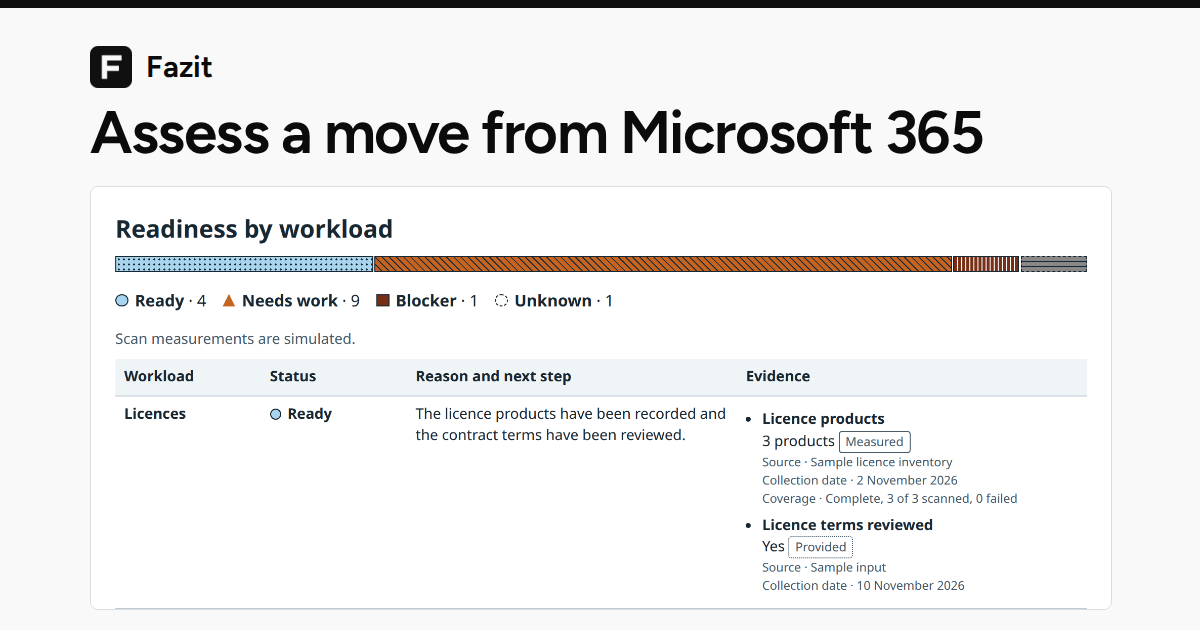
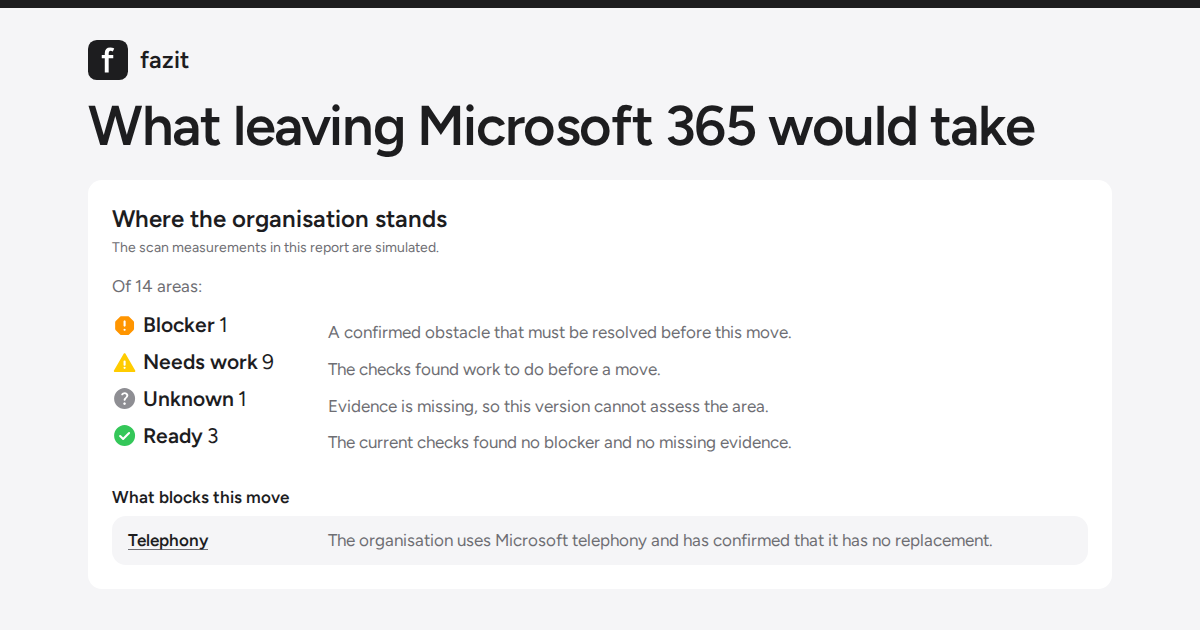
site: Mail example and link preview from the final report (RR-08 part 2)
Assisted-by: Codex GPT-6.2-Sol

diff --git a/site/index.html b/site/index.html
@@ -19,7 +19,7 @@
   <meta property="og:image" content="https://fazit.dev/og.png">
   <meta property="og:image:width" content="1200">
   <meta property="og:image:height" content="630">
-  <meta property="og:image:alt" content="Fazit and an excerpt from the readiness section of the English sample report">
+  <meta property="og:image:alt" content="Fazit wordmark and an excerpt from the English sample report. The summary shows the number of areas in each status and identifies telephony as the blocker.">
   <meta name="twitter:card" content="summary_large_image">
   <link rel="icon" href="/favicon.svg" type="image/svg+xml">
   <link rel="apple-touch-icon" href="/apple-touch-icon.png" sizes="180x180">
@@ -73,7 +73,7 @@
           <source media="(max-width: 600px) and (prefers-color-scheme: dark)" srcset="/images/readiness-en-mobile-dark.webp" width="800" height="1440">
           <source media="(max-width: 600px)" srcset="/images/readiness-en-mobile-light.webp" width="800" height="1440">
           <source media="(prefers-color-scheme: dark)" srcset="/images/readiness-en-dark.webp" width="2016" height="1120">
-          <img src="/images/readiness-en-light.webp" width="2016" height="1120" alt="Summary of the sample report. The status list for 14 areas shows Blocker (1), Needs work (9), Unknown (1) and Ready (3), with a definition for each. The finding that blocks this move follows." decoding="async" fetchpriority="high">
+          <img src="/images/readiness-en-light.webp" width="2016" height="1120" alt="Summary of the sample report. The status list for 14 areas shows Blocker (1), Needs work (9), Unknown (1) and Ready (3), with a definition for each. The report identifies telephony as the blocker." decoding="async" fetchpriority="high">
         </picture>
       </div>
       <figcaption>
@@ -103,11 +103,12 @@
       <h2 class="sec-label" id="example-title">Evidence and a next step for every area</h2>
       <div class="sec-body">
         <p class="sec-intro">Each area shows its status, the evidence behind it and what is still missing. This example covers Mail in the report for a fictional town. Its measurements are simulated.</p>
-        <!-- mail-card: copied from site/demo/en/index.html -->
         <article data-workload="mail" data-status="needs_work" data-incomplete data-category="communication" class="finding" id="readiness-mail" aria-labelledby="area-mail">
           <h3 class="finding-area" id="area-mail">Mail · <span class="finding-category">Communication</span></h3>
-          <p class="finding-status"><span class="status needs_work"><svg class="icon" viewBox="0 -960 960 960" aria-hidden="true" focusable="false"><path d="M109-120q-11 0-20-5.5T75-140q-5-9-5.5-19.5T75-180l370-640q6-10 15.5-15t19.5-5q10 0 19.5 5t15.5 15l370 640q6 10 5.5 20.5T885-140q-5 9-14 14.5t-20 5.5H109Zm371-120q17 0 28.5-11.5T520-280q0-17-11.5-28.5T480-320q-17 0-28.5 11.5T440-280q0 17 11.5 28.5T480-240Zm0-120q17 0 28.5-11.5T520-400v-120q0-17-11.5-28.5T480-560q-17 0-28.5 11.5T440-520v120q0 17 11.5 28.5T480-360Z"/></svg> Needs work</span>
-            <small class="note-text">Evidence incomplete</small></p>
+          <p class="finding-status">
+            <span class="status needs_work"><svg class="icon" viewBox="0 -960 960 960" aria-hidden="true" focusable="false"><path d="M109-120q-11 0-20-5.5T75-140q-5-9-5.5-19.5T75-180l370-640q6-10 15.5-15t19.5-5q10 0 19.5 5t15.5 15l370 640q6 10 5.5 20.5T885-140q-5 9-14 14.5t-20 5.5H109Zm371-120q17 0 28.5-11.5T520-280q0-17-11.5-28.5T480-320q-17 0-28.5 11.5T440-280q0 17 11.5 28.5T480-240Zm0-120q17 0 28.5-11.5T520-400v-120q0-17-11.5-28.5T480-560q-17 0-28.5 11.5T440-520v120q0 17 11.5 28.5T480-360Z"/></svg> Needs work</span>
+            <small class="note-text">Evidence incomplete</small>
+          </p>
           <div class="finding-reason">
             Other systems send mail through Microsoft and will need another way to send it.
           </div>
@@ -244,8 +245,8 @@
         <ul class="tiles tiles-2">
           <li>
             <span class="tile-icon icon-account-balance" aria-hidden="true"></span>
-            <h3>Summary for the council</h3>
-            <p>A summary for the first printed page, with confirmed obstacles, open questions and five-year totals.</p>
+            <h3>Where the organisation stands</h3>
+            <p>The first printed page gives the council confirmed blockers, open questions and five-year cost totals.</p>
           </li>
           <li>
             <span class="tile-icon icon-route" aria-hidden="true"></span>
@@ -259,7 +260,7 @@
           </li>
           <li>
             <span class="tile-icon icon-euro" aria-hidden="true"></span>
-            <h3>Costs over five years</h3>
+            <h3>What staying and moving cost over five years</h3>
             <p>Compare staying, a partial move and a full move using the costs you supply.</p>
           </li>
           <li>
@@ -274,7 +275,7 @@
           </li>
           <li>
             <span class="tile-icon icon-menu-book" aria-hidden="true"></span>
-            <h3>How the report was made</h3>
+            <h3>How this report was made</h3>
             <p>Collection methods, assessment rules, cost calculations and run details.</p>
           </li>
         </ul>

diff --git a/site/de/index.html b/site/de/index.html
@@ -19,7 +19,7 @@
   <meta property="og:image" content="https://fazit.dev/og.png">
   <meta property="og:image:width" content="1200">
   <meta property="og:image:height" content="630">
-  <meta property="og:image:alt" content="Fazit und ein Ausschnitt zur Bereitschaft aus dem englischen Beispielbericht">
+  <meta property="og:image:alt" content="Fazit-Schriftzug und Ausschnitt aus dem englischen Beispielbericht. Die Übersicht zeigt die Zahl der Bereiche je Status und nennt die Telefonie als Hindernis.">
   <meta name="twitter:card" content="summary_large_image">
   <link rel="icon" href="/favicon.svg" type="image/svg+xml">
   <link rel="apple-touch-icon" href="/apple-touch-icon.png" sizes="180x180">
@@ -73,7 +73,7 @@
           <source media="(max-width: 600px) and (prefers-color-scheme: dark)" srcset="/images/readiness-de-mobile-dark.webp" width="800" height="1440">
           <source media="(max-width: 600px)" srcset="/images/readiness-de-mobile-light.webp" width="800" height="1440">
           <source media="(prefers-color-scheme: dark)" srcset="/images/readiness-de-dark.webp" width="2016" height="1120">
-          <img src="/images/readiness-de-light.webp" width="2016" height="1120" alt="Überblick aus dem Beispielbericht. Die Statusliste für 14 Bereiche zeigt „Hindernis“ (1), „Handlungsbedarf“ (9), „Unbekannt“ (1) und „Bereit“ (3) mit jeweils einer Erläuterung. Darunter steht der Befund, der dem Umstieg entgegensteht." decoding="async" fetchpriority="high">
+          <img src="/images/readiness-de-light.webp" width="2016" height="1120" alt="Zusammenfassung des Beispielberichts. Die Statusliste für 14 Bereiche zeigt „Hindernis“ (1), „Handlungsbedarf“ (9), „Unbekannt“ (1) und „Bereit“ (3) mit jeweils einer Erläuterung. Als Hindernis nennt der Bericht die Telefonie." decoding="async" fetchpriority="high">
         </picture>
       </div>
       <figcaption>
@@ -103,11 +103,12 @@
       <h2 class="sec-label" id="example-title">Nachweise und nächster Schritt für jeden Bereich</h2>
       <div class="sec-body">
         <p class="sec-intro">Für jeden Bereich nennt der Bericht den Status, die Nachweise und die noch offenen Angaben. Das Beispiel zeigt den Bereich E-Mail im Bericht für eine fiktive Stadtverwaltung. Die Messwerte sind simuliert.</p>
-        <!-- mail-card: copied from site/demo/de/index.html -->
         <article data-workload="mail" data-status="needs_work" data-incomplete data-category="communication" class="finding" id="readiness-mail" aria-labelledby="area-mail">
           <h3 class="finding-area" id="area-mail">E-Mail · <span class="finding-category">Kommunikation</span></h3>
-          <p class="finding-status"><span class="status needs_work"><svg class="icon" viewBox="0 -960 960 960" aria-hidden="true" focusable="false"><path d="M109-120q-11 0-20-5.5T75-140q-5-9-5.5-19.5T75-180l370-640q6-10 15.5-15t19.5-5q10 0 19.5 5t15.5 15l370 640q6 10 5.5 20.5T885-140q-5 9-14 14.5t-20 5.5H109Zm371-120q17 0 28.5-11.5T520-280q0-17-11.5-28.5T480-320q-17 0-28.5 11.5T440-280q0 17 11.5 28.5T480-240Zm0-120q17 0 28.5-11.5T520-400v-120q0-17-11.5-28.5T480-560q-17 0-28.5 11.5T440-520v120q0 17 11.5 28.5T480-360Z"/></svg> Handlungsbedarf</span>
-            <small class="note-text">Datengrundlage unvollständig</small></p>
+          <p class="finding-status">
+            <span class="status needs_work"><svg class="icon" viewBox="0 -960 960 960" aria-hidden="true" focusable="false"><path d="M109-120q-11 0-20-5.5T75-140q-5-9-5.5-19.5T75-180l370-640q6-10 15.5-15t19.5-5q10 0 19.5 5t15.5 15l370 640q6 10 5.5 20.5T885-140q-5 9-14 14.5t-20 5.5H109Zm371-120q17 0 28.5-11.5T520-280q0-17-11.5-28.5T480-320q-17 0-28.5 11.5T440-280q0 17 11.5 28.5T480-240Zm0-120q17 0 28.5-11.5T520-400v-120q0-17-11.5-28.5T480-560q-17 0-28.5 11.5T440-520v120q0 17 11.5 28.5T480-360Z"/></svg> Handlungsbedarf</span>
+            <small class="note-text">Datengrundlage unvollständig</small>
+          </p>
           <div class="finding-reason">
             Andere Systeme versenden E-Mails über Microsoft und benötigen dafür künftig einen anderen Versandweg.
           </div>
@@ -244,8 +245,8 @@
         <ul class="tiles tiles-2">
           <li>
             <span class="tile-icon icon-account-balance" aria-hidden="true"></span>
-            <h3>Übersicht für den Gemeinderat</h3>
-            <p>Eine Zusammenfassung für die erste Druckseite mit bestätigten Hindernissen, offenen Fragen und den Gesamtkosten über fünf Jahre.</p>
+            <h3>Wo die Organisation steht</h3>
+            <p>Auf der ersten Druckseite findet der Gemeinderat bestätigte Hindernisse, offene Fragen und die Gesamtkosten über fünf Jahre.</p>
           </li>
           <li>
             <span class="tile-icon icon-route" aria-hidden="true"></span>
@@ -259,7 +260,7 @@
           </li>
           <li>
             <span class="tile-icon icon-euro" aria-hidden="true"></span>
-            <h3>Kosten über fünf Jahre</h3>
+            <h3>Was Verbleib und Umstieg in fünf Jahren kosten</h3>
             <p>Der Vergleich stellt die Kosten für Verbleib, teilweisen und vollständigen Umstieg anhand Ihrer Angaben gegenüber.</p>
           </li>
           <li>

diff --git a/site/de/integrators/index.html b/site/de/integrators/index.html
@@ -19,7 +19,7 @@
   <meta property="og:image" content="https://fazit.dev/og.png">
   <meta property="og:image:width" content="1200">
   <meta property="og:image:height" content="630">
-  <meta property="og:image:alt" content="Fazit und ein Ausschnitt zur Bereitschaft aus dem englischen Beispielbericht">
+  <meta property="og:image:alt" content="Fazit-Schriftzug und Ausschnitt aus dem englischen Beispielbericht. Die Übersicht zeigt die Zahl der Bereiche je Status und nennt die Telefonie als Hindernis.">
   <meta name="twitter:card" content="summary_large_image">
   <link rel="icon" href="/favicon.svg" type="image/svg+xml">
   <link rel="apple-touch-icon" href="/apple-touch-icon.png" sizes="180x180">
@@ -50,7 +50,7 @@
   <main id="main" tabindex="-1">
     <div class="page-intro">
       <h1>Mit den Befunden die nächsten Schritte planen</h1>
-      <p>Nutzen Sie die Befunde, um fehlende Exporte und Antworten mit Ihren Kunden zu klären. Für den überarbeiteten Bericht ist eine Liste vorgesehen, die offene Punkte nach dem benötigten Nachweis bündelt und die zuständige Rolle nennt. So genügt eine Anfrage, auch wenn mehrere Bereiche betroffen sind.</p>
+      <p>Nutzen Sie die Befunde, um mit Ihren Kunden zu klären, welche Exporte und Antworten noch fehlen. Der Bericht bündelt offene Punkte nach den noch benötigten Nachweisen und nennt die jeweils zuständige Rolle. So genügt eine Anfrage, auch wenn mehrere Bereiche betroffen sind.</p>
       <p>Für Phase 1.2 ist ein CSV-Export für die Projektplanung vorgesehen.</p>
     </div>
 

diff --git a/site/integrators/index.html b/site/integrators/index.html
@@ -19,7 +19,7 @@
   <meta property="og:image" content="https://fazit.dev/og.png">
   <meta property="og:image:width" content="1200">
   <meta property="og:image:height" content="630">
-  <meta property="og:image:alt" content="Fazit and an excerpt from the readiness section of the English sample report">
+  <meta property="og:image:alt" content="Fazit wordmark and an excerpt from the English sample report. The summary shows the number of areas in each status and identifies telephony as the blocker.">
   <meta name="twitter:card" content="summary_large_image">
   <link rel="icon" href="/favicon.svg" type="image/svg+xml">
   <link rel="apple-touch-icon" href="/apple-touch-icon.png" sizes="180x180">
@@ -50,7 +50,7 @@
   <main id="main" tabindex="-1">
     <div class="page-intro">
       <h1>Plan the next steps from the findings</h1>
-      <p>Use the findings to identify which exports and answers to request from your client. The report redesign groups open points by the evidence needed and names the responsible role for each. That lets you request each item once even if it affects several areas.</p>
+      <p>Use the findings to identify which exports and answers to request from your client. The report groups open points by the evidence needed and names the responsible role for each. That lets you request each item once even if it affects several areas.</p>
       <p>CSV export for project plans is planned for phase 1.2.</p>
     </div>
 

diff --git a/site/style.css b/site/style.css
@@ -1637,7 +1637,7 @@ code {
 
 #example .workload-evidence summary {
   display: flex;
-  align-items: center;
+  align-items: start;
   gap: 4px;
   min-height: var(--hit);
   padding-block: 12px;
@@ -1651,6 +1651,7 @@ code {
 }
 
 #example summary .icon {
+  margin-block-start: calc((1lh - 1.2em) / 2);
   transition: transform 0.3s var(--ease);
 }
 
@@ -1692,6 +1693,11 @@ code {
 }
 
 @media (max-width: 600px) {
+  #example .finding-status .icon {
+    width: 0.875em;
+    height: 0.875em;
+  }
+
   #example .coverage td {
     grid-column: 1 / -1;
   }
@@ -1714,12 +1720,6 @@ code {
 /* Coverage page (RR-08) */
 #coverage .legend {
   margin-top: 0;
-}
-
-/* Use a neutral circle here until RR-04 supplies the shared coverage symbol. */
-#coverage .cov-full::before {
-  mask: none;
-  clip-path: circle(41.667%);
 }
 
 /* Security page (RR-08) */

diff --git a/site/de/404.html b/site/de/404.html
@@ -20,7 +20,7 @@
   <meta property="og:image" content="https://fazit.dev/og.png">
   <meta property="og:image:width" content="1200">
   <meta property="og:image:height" content="630">
-  <meta property="og:image:alt" content="Fazit und ein Ausschnitt zur Bereitschaft aus dem englischen Beispielbericht">
+  <meta property="og:image:alt" content="Fazit-Schriftzug und Ausschnitt aus dem englischen Beispielbericht. Die Übersicht zeigt die Zahl der Bereiche je Status und nennt die Telefonie als Hindernis.">
   <meta name="twitter:card" content="summary_large_image">
   <link rel="icon" href="/favicon.svg" type="image/svg+xml">
   <link rel="apple-touch-icon" href="/apple-touch-icon.png" sizes="180x180">

diff --git a/site/de/about/index.html b/site/de/about/index.html
@@ -19,7 +19,7 @@
   <meta property="og:image" content="https://fazit.dev/og.png">
   <meta property="og:image:width" content="1200">
   <meta property="og:image:height" content="630">
-  <meta property="og:image:alt" content="Fazit und ein Ausschnitt zur Bereitschaft aus dem englischen Beispielbericht">
+  <meta property="og:image:alt" content="Fazit-Schriftzug und Ausschnitt aus dem englischen Beispielbericht. Die Übersicht zeigt die Zahl der Bereiche je Status und nennt die Telefonie als Hindernis.">
   <meta name="twitter:card" content="summary_large_image">
   <link rel="icon" href="/favicon.svg" type="image/svg+xml">
   <link rel="apple-touch-icon" href="/apple-touch-icon.png" sizes="180x180">

diff --git a/site/de/coverage/index.html b/site/de/coverage/index.html
@@ -19,7 +19,7 @@
   <meta property="og:image" content="https://fazit.dev/og.png">
   <meta property="og:image:width" content="1200">
   <meta property="og:image:height" content="630">
-  <meta property="og:image:alt" content="Fazit und ein Ausschnitt zur Bereitschaft aus dem englischen Beispielbericht">
+  <meta property="og:image:alt" content="Fazit-Schriftzug und Ausschnitt aus dem englischen Beispielbericht. Die Übersicht zeigt die Zahl der Bereiche je Status und nennt die Telefonie als Hindernis.">
   <meta name="twitter:card" content="summary_large_image">
   <link rel="icon" href="/favicon.svg" type="image/svg+xml">
   <link rel="apple-touch-icon" href="/apple-touch-icon.png" sizes="180x180">

diff --git a/site/de/impressum/index.html b/site/de/impressum/index.html
@@ -19,7 +19,7 @@
   <meta property="og:image" content="https://fazit.dev/og.png">
   <meta property="og:image:width" content="1200">
   <meta property="og:image:height" content="630">
-  <meta property="og:image:alt" content="Fazit und ein Ausschnitt zur Bereitschaft aus dem englischen Beispielbericht">
+  <meta property="og:image:alt" content="Fazit-Schriftzug und Ausschnitt aus dem englischen Beispielbericht. Die Übersicht zeigt die Zahl der Bereiche je Status und nennt die Telefonie als Hindernis.">
   <meta name="twitter:card" content="summary_large_image">
   <link rel="icon" href="/favicon.svg" type="image/svg+xml">
   <link rel="apple-touch-icon" href="/apple-touch-icon.png" sizes="180x180">

diff --git a/site/de/pilots/index.html b/site/de/pilots/index.html
@@ -19,7 +19,7 @@
   <meta property="og:image" content="https://fazit.dev/og.png">
   <meta property="og:image:width" content="1200">
   <meta property="og:image:height" content="630">
-  <meta property="og:image:alt" content="Fazit und ein Ausschnitt zur Bereitschaft aus dem englischen Beispielbericht">
+  <meta property="og:image:alt" content="Fazit-Schriftzug und Ausschnitt aus dem englischen Beispielbericht. Die Übersicht zeigt die Zahl der Bereiche je Status und nennt die Telefonie als Hindernis.">
   <meta name="twitter:card" content="summary_large_image">
   <link rel="icon" href="/favicon.svg" type="image/svg+xml">
   <link rel="apple-touch-icon" href="/apple-touch-icon.png" sizes="180x180">

diff --git a/site/de/privacy/index.html b/site/de/privacy/index.html
@@ -19,7 +19,7 @@
   <meta property="og:image" content="https://fazit.dev/og.png">
   <meta property="og:image:width" content="1200">
   <meta property="og:image:height" content="630">
-  <meta property="og:image:alt" content="Fazit und ein Ausschnitt zur Bereitschaft aus dem englischen Beispielbericht">
+  <meta property="og:image:alt" content="Fazit-Schriftzug und Ausschnitt aus dem englischen Beispielbericht. Die Übersicht zeigt die Zahl der Bereiche je Status und nennt die Telefonie als Hindernis.">
   <meta name="twitter:card" content="summary_large_image">
   <link rel="icon" href="/favicon.svg" type="image/svg+xml">
   <link rel="apple-touch-icon" href="/apple-touch-icon.png" sizes="180x180">

diff --git a/site/de/security/index.html b/site/de/security/index.html
@@ -19,7 +19,7 @@
   <meta property="og:image" content="https://fazit.dev/og.png">
   <meta property="og:image:width" content="1200">
   <meta property="og:image:height" content="630">
-  <meta property="og:image:alt" content="Fazit und ein Ausschnitt zur Bereitschaft aus dem englischen Beispielbericht">
+  <meta property="og:image:alt" content="Fazit-Schriftzug und Ausschnitt aus dem englischen Beispielbericht. Die Übersicht zeigt die Zahl der Bereiche je Status und nennt die Telefonie als Hindernis.">
   <meta name="twitter:card" content="summary_large_image">
   <link rel="icon" href="/favicon.svg" type="image/svg+xml">
   <link rel="apple-touch-icon" href="/apple-touch-icon.png" sizes="180x180">
